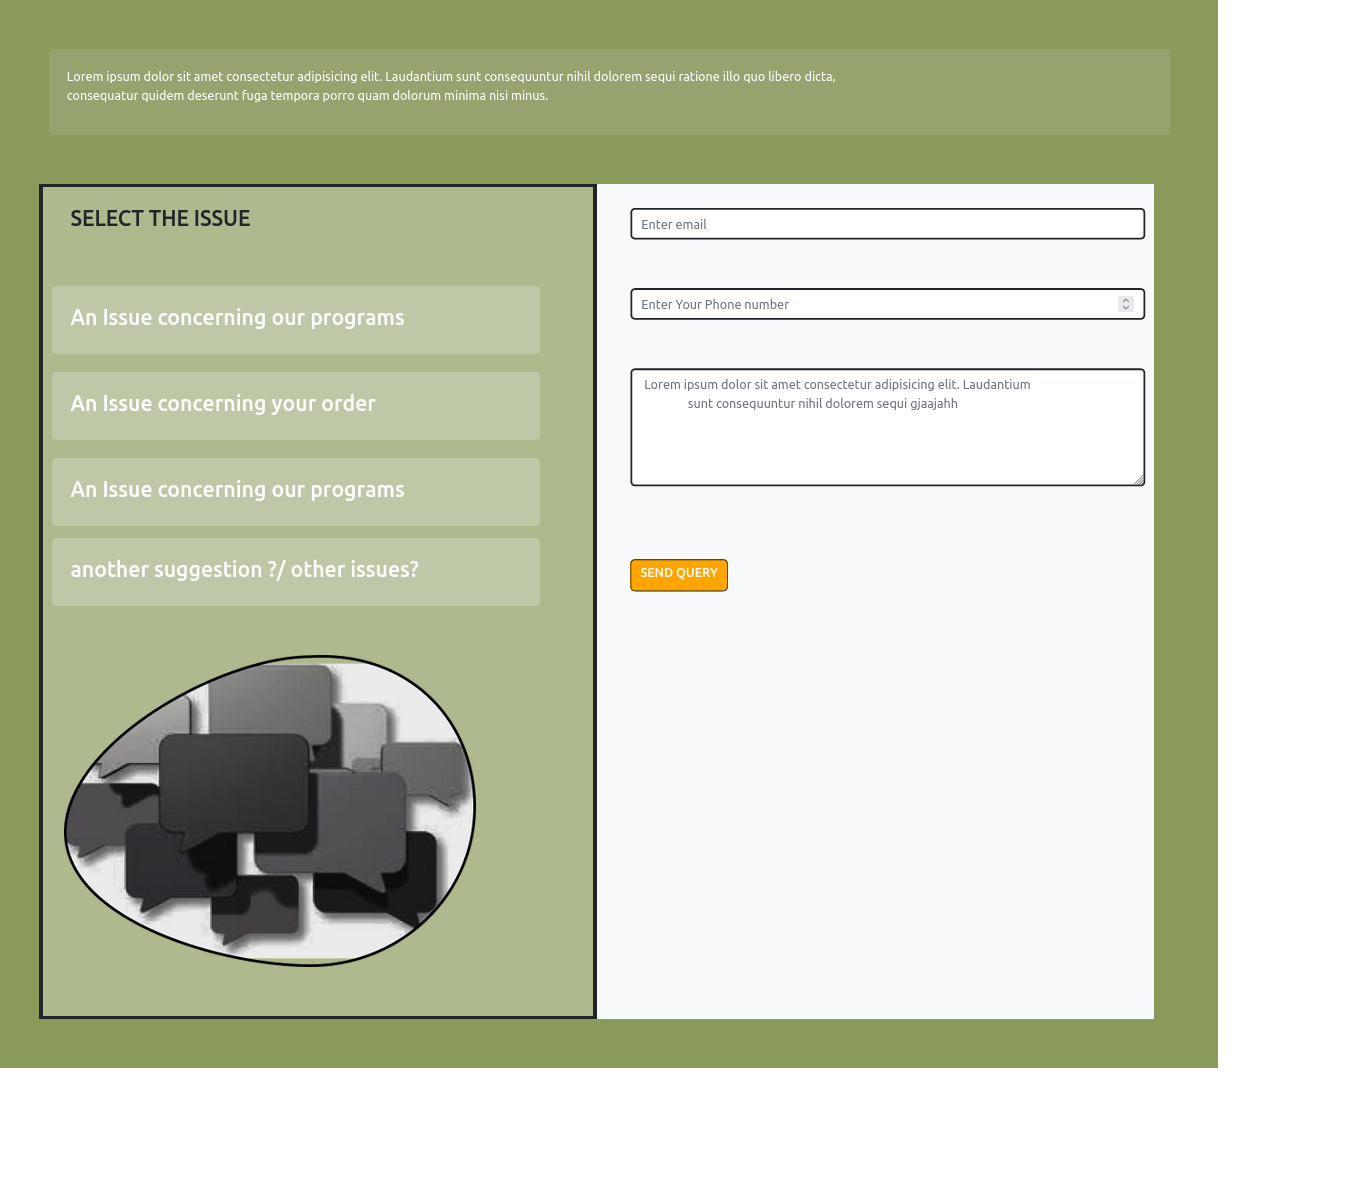
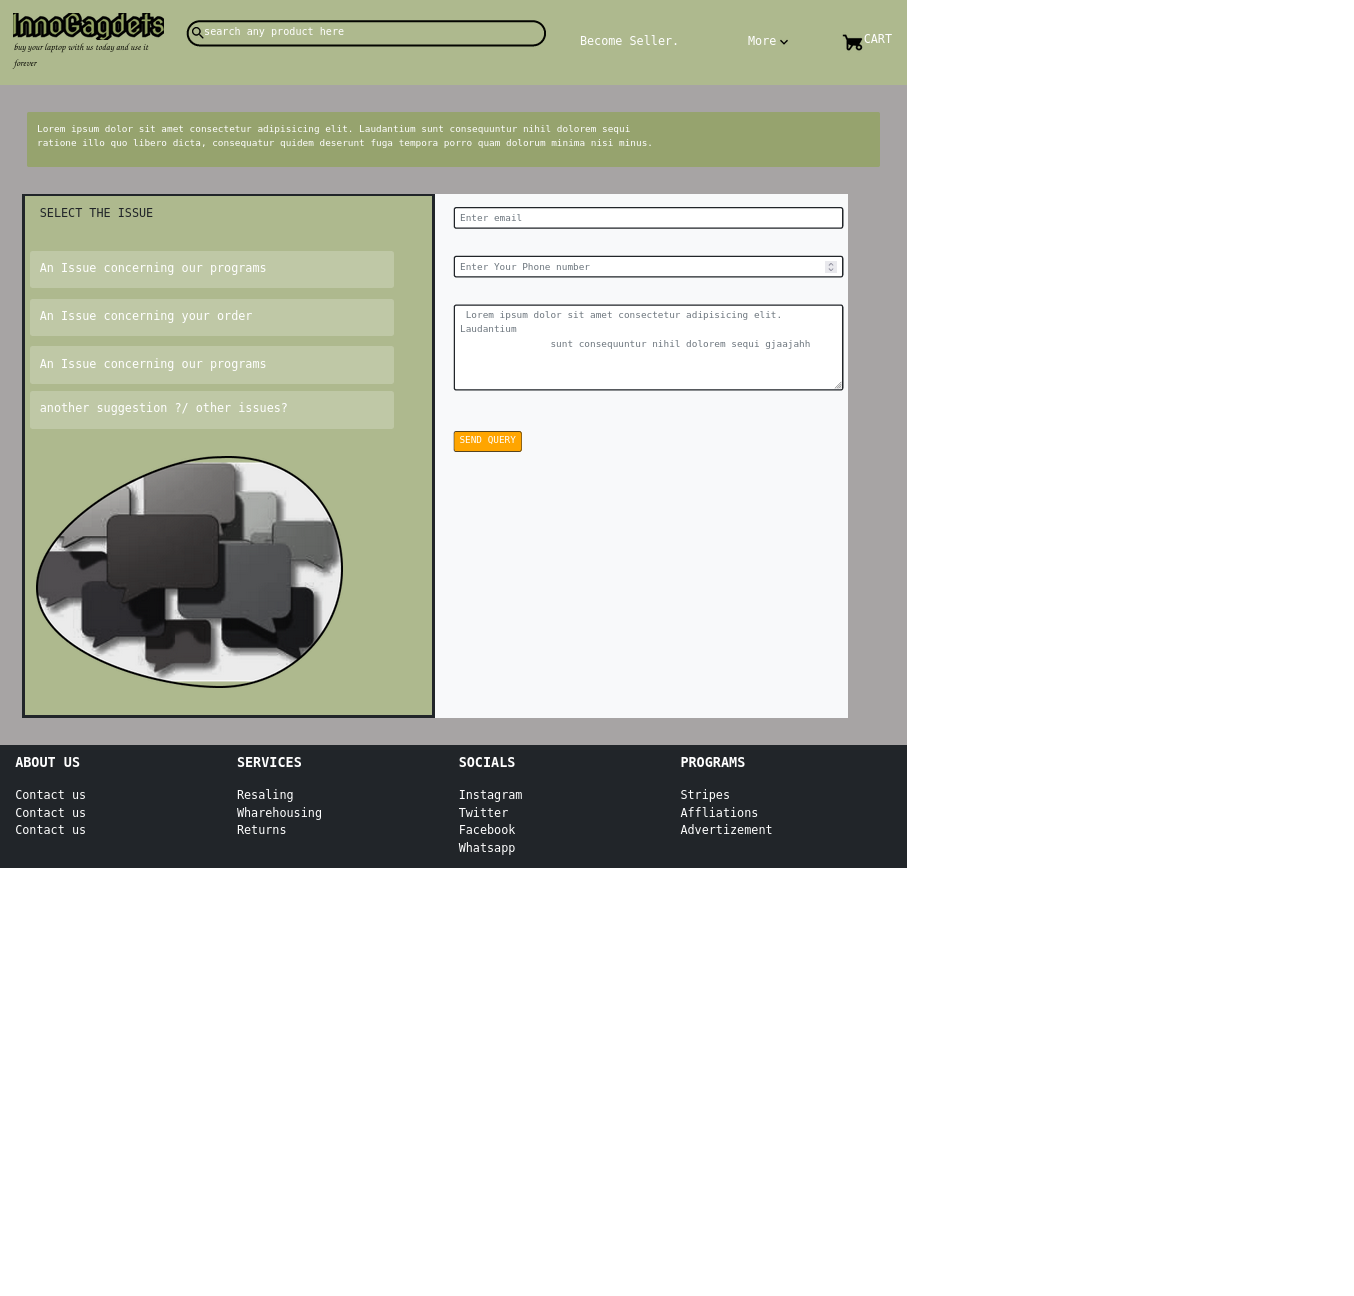
adding footer on contact page and updating a photo

diff --git a/LAB 6/contact.html b/LAB 6/contact.html
@@ -11,9 +11,46 @@
       crossorigin="anonymous"
     />
     <link rel="stylesheet" href="styles.css" />
+    <link rel="stylesheet" href="/LAB 7/CSS/style.css">
     <title>Contact page</title>
   </head>
   <body>
+
+    <div class="container-fluid p-4  my-header">
+      <div class="row my-row p-0 m-0">
+        <div class="d-block col-2 p-2">
+          <img class="color" src="/images/logo.png" />
+          <small class="tagline">
+            buy your laptop with us today and use it forever
+          </small>
+        </div>
+        <div class="col-5 mt-4 m-2">
+          <div
+            class="search rounded rounded-5 g-2 p-2 d-flex justify-content-start"
+          >
+            <div><img src="/images/search-icon.png" alt="search icon" /></div>
+            <h4>search any product here</h4>
+          </div>
+        </div>
+        <div class="col-2 align-self-center">
+          <div class="one-component">
+            <h3>Become Seller.</h3>
+          </div>
+        </div>
+        <div class="col-1 align-self-center">
+          <div class="one-component d-flex">
+            <h3 class="more">More</h3>
+            <span><img src="/images/expand.png" alt="expand icon" /></span>
+          </div>
+        </div>
+        <div class="col-auto align-self-center">
+          <div class="one-component d-flex justify-content-end">
+            <span><img src="/images/cart.png" alt="expand icon" /></span>
+            <h3 class="more">CART</h3>
+          </div>
+        </div>
+      </div>
+    </div>
     <div class="rounded rounded-1 p-4 m-3 intro-card">
       <div class="row">
         <div class="col-9">
@@ -80,5 +117,46 @@
         </div>
       </div>
     </div>
+
+    <div class="container-fluid bg-dark mt-5">
+      <div class="row d-flex justify-content-around p-4">
+        <div class="col-3">
+          <h2><strong>ABOUT US</strong></h2>
+          <br />
+          <h3><a href="">Contact us</a></h3>
+          <h3><a href="">Contact us</a></h3>
+          <h3><a href="">Contact us</a></h3>
+        </div>
+        <div class="col-3">
+          <h2><strong>SERVICES</strong></h2>
+          <br />
+          <h3><a href="">Resaling</a></h3>
+          <h3><a href="">Wharehousing</a></h3>
+          <h3><a href="">Returns</a></h3>
+        </div>
+        <div class="col-3">
+          <h2><strong>SOCIALS</strong></h2>
+          <br />
+          <h3><a href="">Instagram</a></h3>
+          <h3><a href="">Twitter</a></h3>
+          <h3><a href="">Facebook</a></h3>
+          <h3><a href="">Whatsapp</a></h3>
+        </div>
+        <div class="col-3">
+          <h2><strong>PROGRAMS</strong></h2>
+          <br />
+          <h3><a href="">Stripes </a></h3>
+          <h3><a href="">Affliations</a></h3>
+          <h3><a href="">Advertizement</a></h3>
+        </div>
+      </div>
+    </div>
+
+
+
+
+
+
+
   </body>
 </html>
